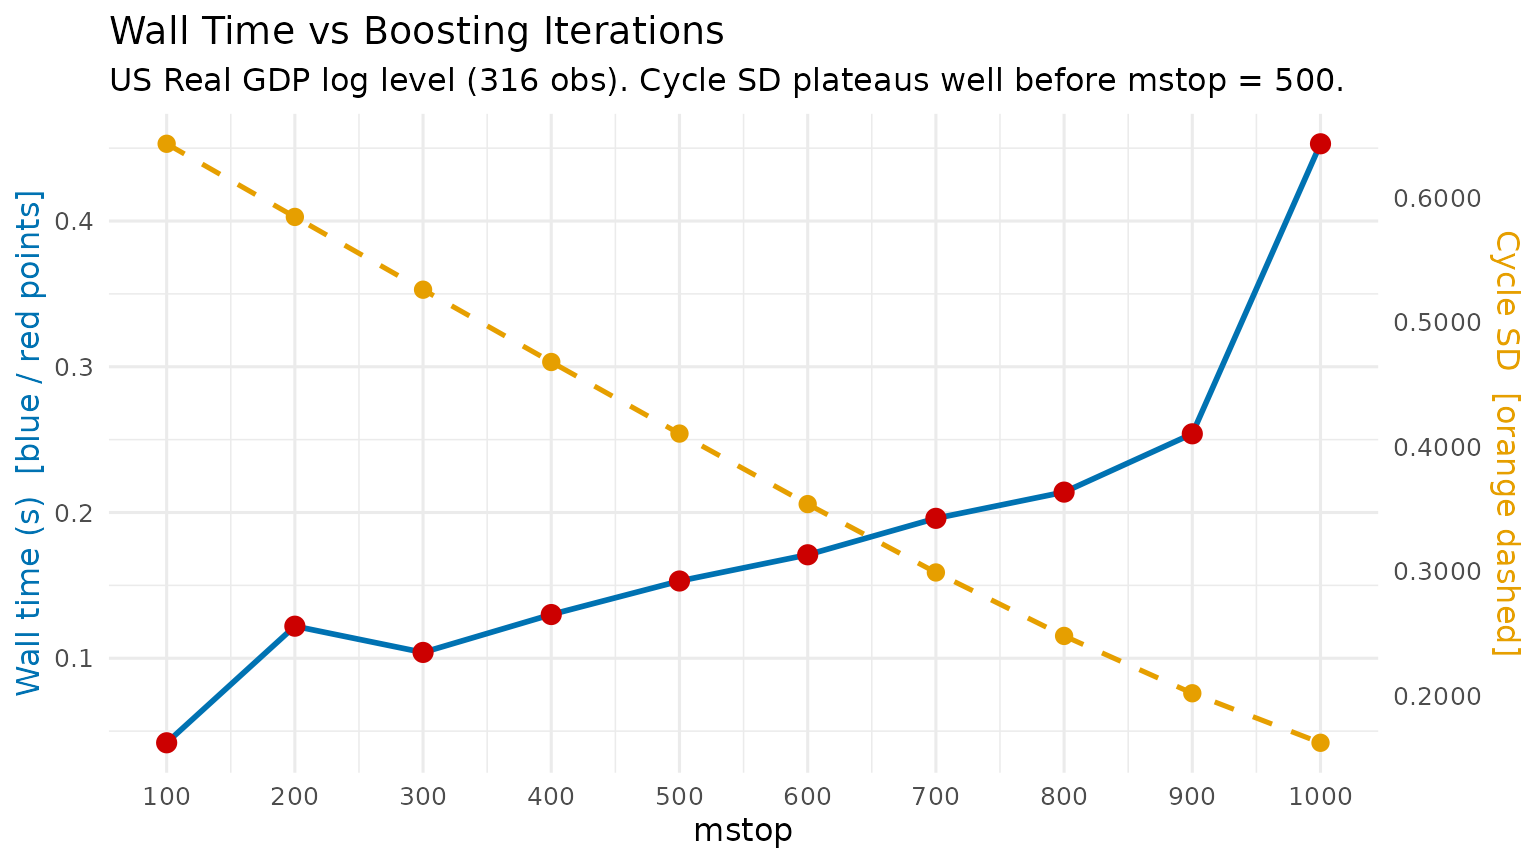
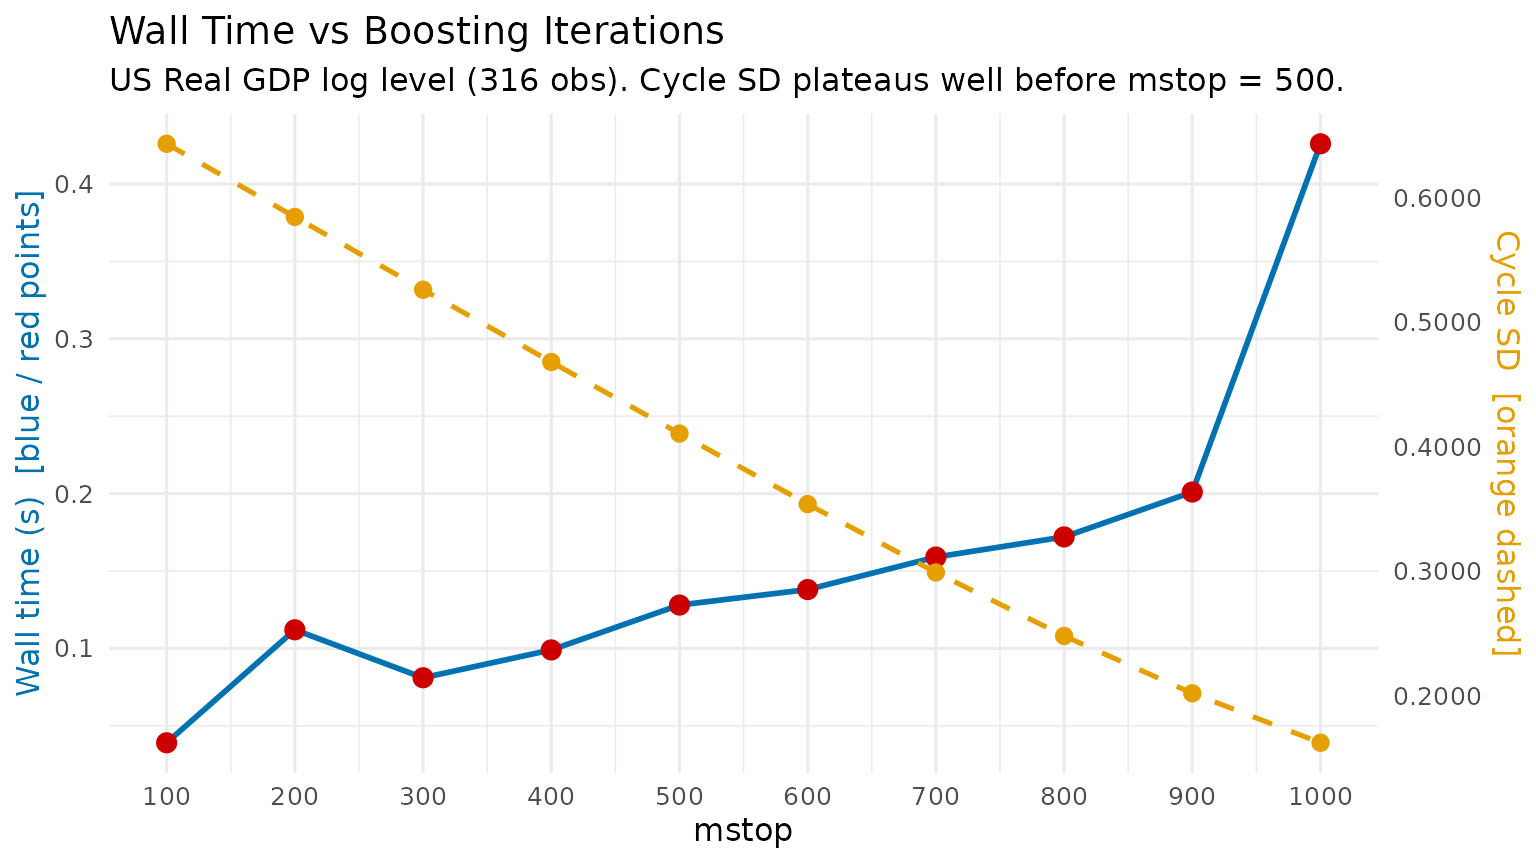
Deploying to gh-pages from @ michal0091/MacroFilters@2f823130a195d49e380ca0603fd429df06ac378d 🚀

diff --git a/articles/tuning_mbh.html b/articles/tuning_mbh.html
@@ -1,5 +1,5 @@
 <!DOCTYPE html>
-<!-- Generated by pkgdown: do not edit by hand --><html lang="en">
+<!-- Generated by pkgdown: do not edit by hand --><html lang="en-US">
 <head>
 <meta http-equiv="Content-Type" content="text/html; charset=UTF-8">
 <meta charset="utf-8">
@@ -336,52 +336,52 @@ boosting and the trend responds to the COVID shock.</li>
 <tbody>
 <tr class="odd">
 <td align="right">100</td>
-<td align="right">0.042</td>
+<td align="right">0.039</td>
 <td align="right">0.643260</td>
 </tr>
 <tr class="even">
 <td align="right">200</td>
-<td align="right">0.122</td>
+<td align="right">0.112</td>
 <td align="right">0.584503</td>
 </tr>
 <tr class="odd">
 <td align="right">300</td>
-<td align="right">0.104</td>
+<td align="right">0.081</td>
 <td align="right">0.526034</td>
 </tr>
 <tr class="even">
 <td align="right">400</td>
-<td align="right">0.130</td>
+<td align="right">0.099</td>
 <td align="right">0.467963</td>
 </tr>
 <tr class="odd">
 <td align="right">500</td>
-<td align="right">0.153</td>
+<td align="right">0.128</td>
 <td align="right">0.410462</td>
 </tr>
 <tr class="even">
 <td align="right">600</td>
-<td align="right">0.171</td>
+<td align="right">0.138</td>
 <td align="right">0.353805</td>
 </tr>
 <tr class="odd">
 <td align="right">700</td>
-<td align="right">0.196</td>
+<td align="right">0.159</td>
 <td align="right">0.298887</td>
 </tr>
 <tr class="even">
 <td align="right">800</td>
-<td align="right">0.214</td>
+<td align="right">0.172</td>
 <td align="right">0.247910</td>
 </tr>
 <tr class="odd">
 <td align="right">900</td>
-<td align="right">0.254</td>
+<td align="right">0.201</td>
 <td align="right">0.201850</td>
 </tr>
 <tr class="even">
 <td align="right">1000</td>
-<td align="right">0.453</td>
+<td align="right">0.426</td>
 <td align="right">0.162069</td>
 </tr>
 </tbody>

diff --git a/articles/introduction.html b/articles/introduction.html
@@ -1,5 +1,5 @@
 <!DOCTYPE html>
-<!-- Generated by pkgdown: do not edit by hand --><html lang="en">
+<!-- Generated by pkgdown: do not edit by hand --><html lang="en-US">
 <head>
 <meta http-equiv="Content-Type" content="text/html; charset=UTF-8">
 <meta charset="utf-8">
@@ -310,7 +310,7 @@ test</td>
 <span><span class="co">#&gt;    Observations : 100</span></span>
 <span><span class="co">#&gt;    Parameters   : lambda = 1600, iterations = 47, stopping_rule = bic</span></span>
 <span><span class="co">#&gt;    Cycle range  : [-5.487, 4.068]  sd = 1.857</span></span>
-<span><span class="co">#&gt;    Compute time : 0.004 s</span></span></code></pre></div>
+<span><span class="co">#&gt;    Compute time : 0.001 s</span></span></code></pre></div>
 <p>Internally, <strong>MacroFilters</strong> precomputes the sparse
 penalty matrix
 <math display="inline" xmlns="http://www.w3.org/1998/Math/MathML"><semantics><mrow><mi>Q</mi><mo>=</mo><mo stretchy="false" form="prefix">(</mo><mi>I</mi><mo>+</mo><mi>λ</mi><msup><mi>D</mi><mo>′</mo></msup><mi>D</mi><msup><mo stretchy="false" form="postfix">)</mo><mrow><mi>−</mi><mn>1</mn></mrow></msup></mrow><annotation encoding="application/x-tex">Q = (I + \lambda D'D)^{-1}</annotation></semantics></math>
@@ -466,7 +466,7 @@ dates.</p>
 <span><span class="co">#&gt;    Observations : 80</span></span>
 <span><span class="co">#&gt;    Parameters   : knots = 40, d = 2.789, mstop = 500, mstop_initial = 500, nu = 0.1, df = 4, select_mstop = FALSE</span></span>
 <span><span class="co">#&gt;    Cycle range  : [-26.64, 4.429]  sd = 4.087</span></span>
-<span><span class="co">#&gt;    Compute time : 0.130 s</span></span></code></pre></div>
+<span><span class="co">#&gt;    Compute time : 0.095 s</span></span></code></pre></div>
 <p><img src="introduction_files/figure-html/mbh-plot-1.png" class="r-plt" alt="" width="100%"></p>
 <hr>
 </div>
@@ -514,7 +514,7 @@ dates.</p>
 <span><span class="co">#&gt;    Observations : 80</span></span>
 <span><span class="co">#&gt;    Parameters   : knots = 40, d = 2.789, mstop = 500, mstop_initial = 500, nu = 0.1, df = 4, select_mstop = FALSE</span></span>
 <span><span class="co">#&gt;    Cycle range  : [-26.64, 4.429]  sd = 4.087</span></span>
-<span><span class="co">#&gt;    Compute time : 0.130 s</span></span></code></pre></div>
+<span><span class="co">#&gt;    Compute time : 0.095 s</span></span></code></pre></div>
 <p>The <code>print</code> method shows the method, the number of
 observations, the key parameters, the cycle range, and how long the
 filter took to run.</p>
@@ -549,7 +549,7 @@ filter took to run.</p>
 <span><span class="co">#&gt;  $ df            : int 4</span></span>
 <span><span class="co">#&gt;  $ select_mstop  : logi FALSE</span></span>
 <span><span class="co">#&gt;  $ boundary.knots: NULL</span></span>
-<span><span class="co">#&gt;  $ compute_time  : num 0.13</span></span></code></pre></div>
+<span><span class="co">#&gt;  $ compute_time  : num 0.095</span></span></code></pre></div>
 <p>The <code>meta</code> list stores every parameter used by the filter,
 making results fully reproducible from the object alone — no need to
 track arguments separately.</p>

diff --git a/authors.html b/authors.html
@@ -1,5 +1,5 @@
 <!DOCTYPE html>
-<!-- Generated by pkgdown: do not edit by hand --><html lang="en"><head><meta http-equiv="Content-Type" content="text/html; charset=UTF-8"><meta charset="utf-8"><meta http-equiv="X-UA-Compatible" content="IE=edge"><meta name="viewport" content="width=device-width, initial-scale=1, shrink-to-fit=no"><title>Authors and Citation • MacroFilters</title><!-- favicons --><link rel="icon" type="image/png" sizes="96x96" href="favicon-96x96.png"><link rel="icon" type="”image/svg+xml”" href="favicon.svg"><link rel="apple-touch-icon" sizes="180x180" href="apple-touch-icon.png"><link rel="icon" sizes="any" href="favicon.ico"><link rel="manifest" href="site.webmanifest"><script src="deps/jquery-3.6.0/jquery-3.6.0.min.js"></script><meta name="viewport" content="width=device-width, initial-scale=1, shrink-to-fit=no"><link href="deps/bootstrap-5.3.8/bootstrap.min.css" rel="stylesheet"><script src="deps/bootstrap-5.3.8/bootstrap.bundle.min.js"></script><link href="deps/font-awesome-6.5.2/css/all.min.css" rel="stylesheet"><link href="deps/font-awesome-6.5.2/css/v4-shims.min.css" rel="stylesheet"><script src="deps/headroom-0.11.0/headroom.min.js"></script><script src="deps/headroom-0.11.0/jQuery.headroom.min.js"></script><script src="deps/bootstrap-toc-1.0.1/bootstrap-toc.min.js"></script><script src="deps/clipboard.js-2.0.11/clipboard.min.js"></script><script src="deps/search-1.0.0/autocomplete.jquery.min.js"></script><script src="deps/search-1.0.0/fuse.min.js"></script><script src="deps/search-1.0.0/mark.min.js"></script><!-- pkgdown --><script src="pkgdown.js"></script><meta property="og:title" content="Authors and Citation"><meta property="og:image" content="https://michal0091.github.io/MacroFilters/logo.png"></head><body>
+<!-- Generated by pkgdown: do not edit by hand --><html lang="en-US"><head><meta http-equiv="Content-Type" content="text/html; charset=UTF-8"><meta charset="utf-8"><meta http-equiv="X-UA-Compatible" content="IE=edge"><meta name="viewport" content="width=device-width, initial-scale=1, shrink-to-fit=no"><title>Authors and Citation • MacroFilters</title><!-- favicons --><link rel="icon" type="image/png" sizes="96x96" href="favicon-96x96.png"><link rel="icon" type="”image/svg+xml”" href="favicon.svg"><link rel="apple-touch-icon" sizes="180x180" href="apple-touch-icon.png"><link rel="icon" sizes="any" href="favicon.ico"><link rel="manifest" href="site.webmanifest"><script src="deps/jquery-3.6.0/jquery-3.6.0.min.js"></script><meta name="viewport" content="width=device-width, initial-scale=1, shrink-to-fit=no"><link href="deps/bootstrap-5.3.8/bootstrap.min.css" rel="stylesheet"><script src="deps/bootstrap-5.3.8/bootstrap.bundle.min.js"></script><link href="deps/font-awesome-6.5.2/css/all.min.css" rel="stylesheet"><link href="deps/font-awesome-6.5.2/css/v4-shims.min.css" rel="stylesheet"><script src="deps/headroom-0.11.0/headroom.min.js"></script><script src="deps/headroom-0.11.0/jQuery.headroom.min.js"></script><script src="deps/bootstrap-toc-1.0.1/bootstrap-toc.min.js"></script><script src="deps/clipboard.js-2.0.11/clipboard.min.js"></script><script src="deps/search-1.0.0/autocomplete.jquery.min.js"></script><script src="deps/search-1.0.0/fuse.min.js"></script><script src="deps/search-1.0.0/mark.min.js"></script><!-- pkgdown --><script src="pkgdown.js"></script><meta property="og:title" content="Authors and Citation"><meta property="og:image" content="https://michal0091.github.io/MacroFilters/logo.png"></head><body>
     <a href="#main" class="visually-hidden-focusable">Skip to contents</a>
 
 
@@ -51,14 +51,14 @@
       <p>Kinel M (2026).
 “Robust Real-Time Macroeconomic Trend Extraction: A Gradient Boosting Approach.”
 <a href="https://doi.org/10.2139/ssrn.6371138" class="external-link">doi:10.2139/ssrn.6371138</a>.
-Working Paper, SSRN, <a href="https://ssrn.com/abstract=6371138" class="external-link">https://ssrn.com/abstract=6371138</a>.
+Working Paper, SSRN, <a href="https://doi.org/10.2139/ssrn.6371138" class="external-link">https://doi.org/10.2139/ssrn.6371138</a>.
 </p>
       <pre>@Unpublished{,
   title = {Robust Real-Time Macroeconomic Trend Extraction: A Gradient Boosting Approach},
   author = {Michal Kinel},
   year = {2026},
   note = {Working Paper, SSRN},
-  url = {https://ssrn.com/abstract=6371138},
+  url = {https://doi.org/10.2139/ssrn.6371138},
   doi = {10.2139/ssrn.6371138},
 }</pre>
     </div>

diff --git a/reference/mbh_filter.html b/reference/mbh_filter.html
@@ -1,5 +1,5 @@
 <!DOCTYPE html>
-<!-- Generated by pkgdown: do not edit by hand --><html lang="en"><head><meta http-equiv="Content-Type" content="text/html; charset=UTF-8"><meta charset="utf-8"><meta http-equiv="X-UA-Compatible" content="IE=edge"><meta name="viewport" content="width=device-width, initial-scale=1, shrink-to-fit=no"><title>MacroBoost Hybrid (MBH) Filter — mbh_filter • MacroFilters</title><!-- favicons --><link rel="icon" type="image/png" sizes="96x96" href="../favicon-96x96.png"><link rel="icon" type="”image/svg+xml”" href="../favicon.svg"><link rel="apple-touch-icon" sizes="180x180" href="../apple-touch-icon.png"><link rel="icon" sizes="any" href="../favicon.ico"><link rel="manifest" href="../site.webmanifest"><script src="../deps/jquery-3.6.0/jquery-3.6.0.min.js"></script><meta name="viewport" content="width=device-width, initial-scale=1, shrink-to-fit=no"><link href="../deps/bootstrap-5.3.8/bootstrap.min.css" rel="stylesheet"><script src="../deps/bootstrap-5.3.8/bootstrap.bundle.min.js"></script><link href="../deps/font-awesome-6.5.2/css/all.min.css" rel="stylesheet"><link href="../deps/font-awesome-6.5.2/css/v4-shims.min.css" rel="stylesheet"><script src="../deps/headroom-0.11.0/headroom.min.js"></script><script src="../deps/headroom-0.11.0/jQuery.headroom.min.js"></script><script src="../deps/bootstrap-toc-1.0.1/bootstrap-toc.min.js"></script><script src="../deps/clipboard.js-2.0.11/clipboard.min.js"></script><script src="../deps/search-1.0.0/autocomplete.jquery.min.js"></script><script src="../deps/search-1.0.0/fuse.min.js"></script><script src="../deps/search-1.0.0/mark.min.js"></script><!-- pkgdown --><script src="../pkgdown.js"></script><meta property="og:title" content="MacroBoost Hybrid (MBH) Filter — mbh_filter"><meta name="description" content="Decomposes a time series into trend and cycle using a robust boosting
+<!-- Generated by pkgdown: do not edit by hand --><html lang="en-US"><head><meta http-equiv="Content-Type" content="text/html; charset=UTF-8"><meta charset="utf-8"><meta http-equiv="X-UA-Compatible" content="IE=edge"><meta name="viewport" content="width=device-width, initial-scale=1, shrink-to-fit=no"><title>MacroBoost Hybrid (MBH) Filter — mbh_filter • MacroFilters</title><!-- favicons --><link rel="icon" type="image/png" sizes="96x96" href="../favicon-96x96.png"><link rel="icon" type="”image/svg+xml”" href="../favicon.svg"><link rel="apple-touch-icon" sizes="180x180" href="../apple-touch-icon.png"><link rel="icon" sizes="any" href="../favicon.ico"><link rel="manifest" href="../site.webmanifest"><script src="../deps/jquery-3.6.0/jquery-3.6.0.min.js"></script><meta name="viewport" content="width=device-width, initial-scale=1, shrink-to-fit=no"><link href="../deps/bootstrap-5.3.8/bootstrap.min.css" rel="stylesheet"><script src="../deps/bootstrap-5.3.8/bootstrap.bundle.min.js"></script><link href="../deps/font-awesome-6.5.2/css/all.min.css" rel="stylesheet"><link href="../deps/font-awesome-6.5.2/css/v4-shims.min.css" rel="stylesheet"><script src="../deps/headroom-0.11.0/headroom.min.js"></script><script src="../deps/headroom-0.11.0/jQuery.headroom.min.js"></script><script src="../deps/bootstrap-toc-1.0.1/bootstrap-toc.min.js"></script><script src="../deps/clipboard.js-2.0.11/clipboard.min.js"></script><script src="../deps/search-1.0.0/autocomplete.jquery.min.js"></script><script src="../deps/search-1.0.0/fuse.min.js"></script><script src="../deps/search-1.0.0/mark.min.js"></script><!-- pkgdown --><script src="../pkgdown.js"></script><meta property="og:title" content="MacroBoost Hybrid (MBH) Filter — mbh_filter"><meta name="description" content="Decomposes a time series into trend and cycle using a robust boosting
 algorithm. Unlike the HP filter, MBH uses the Huber loss function to
 automatically downweight outliers (like the COVID-19 shock), preventing
 them from distorting the trend."><meta property="og:description" content="Decomposes a time series into trend and cycle using a robust boosting
@@ -205,7 +205,7 @@ observations. Keep <code>df = 4</code> (the default) for real-time applications.
 <span class="r-out co"><span class="r-pr">#&gt;</span>    Observations : 80</span>
 <span class="r-out co"><span class="r-pr">#&gt;</span>    Parameters   : knots = 40, d = 0.9356, mstop = 100, mstop_initial = 100, nu = 0.1, df = 4, select_mstop = FALSE</span>
 <span class="r-out co"><span class="r-pr">#&gt;</span>    Cycle range  : [-2.445, 5.094]  sd = 1.643</span>
-<span class="r-out co"><span class="r-pr">#&gt;</span>    Compute time : 0.035 s</span>
+<span class="r-out co"><span class="r-pr">#&gt;</span>    Compute time : 0.025 s</span>
 <span class="r-in"><span></span></span>
 <span class="r-in"><span><span class="co"># \donttest{</span></span></span>
 <span class="r-in"><span><span class="co"># Full example with default parameters</span></span></span>
@@ -216,7 +216,7 @@ observations. Keep <code>df = 4</code> (the default) for real-time applications.
 <span class="r-out co"><span class="r-pr">#&gt;</span>    Observations : 200</span>
 <span class="r-out co"><span class="r-pr">#&gt;</span>    Parameters   : knots = 100, d = 0.9282, mstop = 500, mstop_initial = 500, nu = 0.1, df = 4, select_mstop = FALSE</span>
 <span class="r-out co"><span class="r-pr">#&gt;</span>    Cycle range  : [-4.004, 3.762]  sd = 1.463</span>
-<span class="r-out co"><span class="r-pr">#&gt;</span>    Compute time : 0.163 s</span>
+<span class="r-out co"><span class="r-pr">#&gt;</span>    Compute time : 0.118 s</span>
 <span class="r-in"><span><span class="co"># }</span></span></span>
 </code></pre></div>
     </div>

diff --git a/index.html b/index.html
@@ -1,5 +1,5 @@
 <!DOCTYPE html>
-<!-- Generated by pkgdown: do not edit by hand --><html lang="en">
+<!-- Generated by pkgdown: do not edit by hand --><html lang="en-US">
 <head>
 <meta http-equiv="Content-Type" content="text/html; charset=UTF-8">
 <meta charset="utf-8">
@@ -66,7 +66,7 @@
 </div>
 <p><a href="https://lifecycle.r-lib.org/articles/stages.html#experimental" class="external-link"></a> <a href="https://github.com/michal0091/MacroFilters/actions/workflows/R-CMD-check.yaml" class="external-link"></a></p>
 <blockquote>
-<p><strong>Working Paper Available:</strong> The econometric methodology and mathematical proofs underlying this package are distributed via SSRN: <a href="https://ssrn.com/abstract=6371138" class="external-link">Robust Real-Time Macroeconomic Trend Extraction: A Gradient Boosting Approach</a>.</p>
+<p><strong>Working Paper Available:</strong> The econometric methodology and mathematical proofs underlying this package are distributed via SSRN: <a href="https://doi.org/10.2139/ssrn.6371138" class="external-link">Robust Real-Time Macroeconomic Trend Extraction: A Gradient Boosting Approach</a>.</p>
 </blockquote>
 <p><strong>MacroFilters</strong> is a unified, high-performance library for extracting trend and cycle components from macroeconomic time series. It combines classical filters (Hodrick-Prescott, Hamilton, Boosted HP) with its flagship algorithm, the <strong>MacroBoost Hybrid (MBH)</strong> — a gradient-boosting filter with Huber loss that is <em>immune to structural shocks</em> such as COVID-19, financial crises, and wars.</p>
 <p><strong>Why MacroFilters instead of <code>mFilter</code> or <code>neverhpfilter</code>?</strong></p>

diff --git a/reference/bhp_filter.html b/reference/bhp_filter.html
@@ -1,5 +1,5 @@
 <!DOCTYPE html>
-<!-- Generated by pkgdown: do not edit by hand --><html lang="en"><head><meta http-equiv="Content-Type" content="text/html; charset=UTF-8"><meta charset="utf-8"><meta http-equiv="X-UA-Compatible" content="IE=edge"><meta name="viewport" content="width=device-width, initial-scale=1, shrink-to-fit=no"><title>Boosted HP Filter — bhp_filter • MacroFilters</title><!-- favicons --><link rel="icon" type="image/png" sizes="96x96" href="../favicon-96x96.png"><link rel="icon" type="”image/svg+xml”" href="../favicon.svg"><link rel="apple-touch-icon" sizes="180x180" href="../apple-touch-icon.png"><link rel="icon" sizes="any" href="../favicon.ico"><link rel="manifest" href="../site.webmanifest"><script src="../deps/jquery-3.6.0/jquery-3.6.0.min.js"></script><meta name="viewport" content="width=device-width, initial-scale=1, shrink-to-fit=no"><link href="../deps/bootstrap-5.3.8/bootstrap.min.css" rel="stylesheet"><script src="../deps/bootstrap-5.3.8/bootstrap.bundle.min.js"></script><link href="../deps/font-awesome-6.5.2/css/all.min.css" rel="stylesheet"><link href="../deps/font-awesome-6.5.2/css/v4-shims.min.css" rel="stylesheet"><script src="../deps/headroom-0.11.0/headroom.min.js"></script><script src="../deps/headroom-0.11.0/jQuery.headroom.min.js"></script><script src="../deps/bootstrap-toc-1.0.1/bootstrap-toc.min.js"></script><script src="../deps/clipboard.js-2.0.11/clipboard.min.js"></script><script src="../deps/search-1.0.0/autocomplete.jquery.min.js"></script><script src="../deps/search-1.0.0/fuse.min.js"></script><script src="../deps/search-1.0.0/mark.min.js"></script><!-- pkgdown --><script src="../pkgdown.js"></script><meta property="og:title" content="Boosted HP Filter — bhp_filter"><meta name="description" content="Iteratively applies the Hodrick-Prescott filter on residuals to better
+<!-- Generated by pkgdown: do not edit by hand --><html lang="en-US"><head><meta http-equiv="Content-Type" content="text/html; charset=UTF-8"><meta charset="utf-8"><meta http-equiv="X-UA-Compatible" content="IE=edge"><meta name="viewport" content="width=device-width, initial-scale=1, shrink-to-fit=no"><title>Boosted HP Filter — bhp_filter • MacroFilters</title><!-- favicons --><link rel="icon" type="image/png" sizes="96x96" href="../favicon-96x96.png"><link rel="icon" type="”image/svg+xml”" href="../favicon.svg"><link rel="apple-touch-icon" sizes="180x180" href="../apple-touch-icon.png"><link rel="icon" sizes="any" href="../favicon.ico"><link rel="manifest" href="../site.webmanifest"><script src="../deps/jquery-3.6.0/jquery-3.6.0.min.js"></script><meta name="viewport" content="width=device-width, initial-scale=1, shrink-to-fit=no"><link href="../deps/bootstrap-5.3.8/bootstrap.min.css" rel="stylesheet"><script src="../deps/bootstrap-5.3.8/bootstrap.bundle.min.js"></script><link href="../deps/font-awesome-6.5.2/css/all.min.css" rel="stylesheet"><link href="../deps/font-awesome-6.5.2/css/v4-shims.min.css" rel="stylesheet"><script src="../deps/headroom-0.11.0/headroom.min.js"></script><script src="../deps/headroom-0.11.0/jQuery.headroom.min.js"></script><script src="../deps/bootstrap-toc-1.0.1/bootstrap-toc.min.js"></script><script src="../deps/clipboard.js-2.0.11/clipboard.min.js"></script><script src="../deps/search-1.0.0/autocomplete.jquery.min.js"></script><script src="../deps/search-1.0.0/fuse.min.js"></script><script src="../deps/search-1.0.0/mark.min.js"></script><!-- pkgdown --><script src="../pkgdown.js"></script><meta property="og:title" content="Boosted HP Filter — bhp_filter"><meta name="description" content="Iteratively applies the Hodrick-Prescott filter on residuals to better
 capture stochastic trends.  At each iteration the HP smoother is applied to
 the current residual and the resulting trend increment is added to the
 cumulative trend estimate.  Iteration stops according to one of three rules:
@@ -147,7 +147,7 @@ Filter. <em>International Economic Review</em>, 62(2), 521–570.</p>
 <span class="r-out co"><span class="r-pr">#&gt;</span>    Observations : 200</span>
 <span class="r-out co"><span class="r-pr">#&gt;</span>    Parameters   : lambda = 1600, iterations = 100, stopping_rule = bic</span>
 <span class="r-out co"><span class="r-pr">#&gt;</span>    Cycle range  : [-1.713, 1.66]  sd = 0.6829</span>
-<span class="r-out co"><span class="r-pr">#&gt;</span>    Compute time : 0.010 s</span>
+<span class="r-out co"><span class="r-pr">#&gt;</span>    Compute time : 0.007 s</span>
 </code></pre></div>
     </div>
   </main><aside class="col-md-3"><nav id="toc" aria-label="Table of contents"><h2>On this page</h2>

diff --git a/reference/hp_filter.html b/reference/hp_filter.html
@@ -1,5 +1,5 @@
 <!DOCTYPE html>
-<!-- Generated by pkgdown: do not edit by hand --><html lang="en"><head><meta http-equiv="Content-Type" content="text/html; charset=UTF-8"><meta charset="utf-8"><meta http-equiv="X-UA-Compatible" content="IE=edge"><meta name="viewport" content="width=device-width, initial-scale=1, shrink-to-fit=no"><title>Hodrick-Prescott Filter (Sparse Matrix Implementation) — hp_filter • MacroFilters</title><!-- favicons --><link rel="icon" type="image/png" sizes="96x96" href="../favicon-96x96.png"><link rel="icon" type="”image/svg+xml”" href="../favicon.svg"><link rel="apple-touch-icon" sizes="180x180" href="../apple-touch-icon.png"><link rel="icon" sizes="any" href="../favicon.ico"><link rel="manifest" href="../site.webmanifest"><script src="../deps/jquery-3.6.0/jquery-3.6.0.min.js"></script><meta name="viewport" content="width=device-width, initial-scale=1, shrink-to-fit=no"><link href="../deps/bootstrap-5.3.8/bootstrap.min.css" rel="stylesheet"><script src="../deps/bootstrap-5.3.8/bootstrap.bundle.min.js"></script><link href="../deps/font-awesome-6.5.2/css/all.min.css" rel="stylesheet"><link href="../deps/font-awesome-6.5.2/css/v4-shims.min.css" rel="stylesheet"><script src="../deps/headroom-0.11.0/headroom.min.js"></script><script src="../deps/headroom-0.11.0/jQuery.headroom.min.js"></script><script src="../deps/bootstrap-toc-1.0.1/bootstrap-toc.min.js"></script><script src="../deps/clipboard.js-2.0.11/clipboard.min.js"></script><script src="../deps/search-1.0.0/autocomplete.jquery.min.js"></script><script src="../deps/search-1.0.0/fuse.min.js"></script><script src="../deps/search-1.0.0/mark.min.js"></script><!-- pkgdown --><script src="../pkgdown.js"></script><meta property="og:title" content="Hodrick-Prescott Filter (Sparse Matrix Implementation) — hp_filter"><meta name="description" content="Decomposes a time series into trend and cycle components by solving the
+<!-- Generated by pkgdown: do not edit by hand --><html lang="en-US"><head><meta http-equiv="Content-Type" content="text/html; charset=UTF-8"><meta charset="utf-8"><meta http-equiv="X-UA-Compatible" content="IE=edge"><meta name="viewport" content="width=device-width, initial-scale=1, shrink-to-fit=no"><title>Hodrick-Prescott Filter (Sparse Matrix Implementation) — hp_filter • MacroFilters</title><!-- favicons --><link rel="icon" type="image/png" sizes="96x96" href="../favicon-96x96.png"><link rel="icon" type="”image/svg+xml”" href="../favicon.svg"><link rel="apple-touch-icon" sizes="180x180" href="../apple-touch-icon.png"><link rel="icon" sizes="any" href="../favicon.ico"><link rel="manifest" href="../site.webmanifest"><script src="../deps/jquery-3.6.0/jquery-3.6.0.min.js"></script><meta name="viewport" content="width=device-width, initial-scale=1, shrink-to-fit=no"><link href="../deps/bootstrap-5.3.8/bootstrap.min.css" rel="stylesheet"><script src="../deps/bootstrap-5.3.8/bootstrap.bundle.min.js"></script><link href="../deps/font-awesome-6.5.2/css/all.min.css" rel="stylesheet"><link href="../deps/font-awesome-6.5.2/css/v4-shims.min.css" rel="stylesheet"><script src="../deps/headroom-0.11.0/headroom.min.js"></script><script src="../deps/headroom-0.11.0/jQuery.headroom.min.js"></script><script src="../deps/bootstrap-toc-1.0.1/bootstrap-toc.min.js"></script><script src="../deps/clipboard.js-2.0.11/clipboard.min.js"></script><script src="../deps/search-1.0.0/autocomplete.jquery.min.js"></script><script src="../deps/search-1.0.0/fuse.min.js"></script><script src="../deps/search-1.0.0/mark.min.js"></script><!-- pkgdown --><script src="../pkgdown.js"></script><meta property="og:title" content="Hodrick-Prescott Filter (Sparse Matrix Implementation) — hp_filter"><meta name="description" content="Decomposes a time series into trend and cycle components by solving the
 HP penalized least-squares problem using a sparse Cholesky factorization.
 This avoids the dense O(n^3) inversion used by other implementations and
 scales linearly in the number of observations."><meta property="og:description" content="Decomposes a time series into trend and cycle components by solving the
@@ -114,7 +114,7 @@ for the Frequency of Observations. <em>Review of Economics and Statistics</em>,
 <span class="r-out co"><span class="r-pr">#&gt;</span>    Observations : 200</span>
 <span class="r-out co"><span class="r-pr">#&gt;</span>    Parameters   : lambda = 1600</span>
 <span class="r-out co"><span class="r-pr">#&gt;</span>    Cycle range  : [-2.878, 3.83]  sd = 1.388</span>
-<span class="r-out co"><span class="r-pr">#&gt;</span>    Compute time : 0.003 s</span>
+<span class="r-out co"><span class="r-pr">#&gt;</span>    Compute time : 0.002 s</span>
 </code></pre></div>
     </div>
   </main><aside class="col-md-3"><nav id="toc" aria-label="Table of contents"><h2>On this page</h2>

diff --git a/404.html b/404.html
@@ -1,5 +1,5 @@
 <!DOCTYPE html>
-<!-- Generated by pkgdown: do not edit by hand --><html lang="en">
+<!-- Generated by pkgdown: do not edit by hand --><html lang="en-US">
 <head>
 <meta http-equiv="Content-Type" content="text/html; charset=UTF-8">
 <meta charset="utf-8">

diff --git a/CONTRIBUTING.html b/CONTRIBUTING.html
@@ -1,5 +1,5 @@
 <!DOCTYPE html>
-<!-- Generated by pkgdown: do not edit by hand --><html lang="en"><head><meta http-equiv="Content-Type" content="text/html; charset=UTF-8"><meta charset="utf-8"><meta http-equiv="X-UA-Compatible" content="IE=edge"><meta name="viewport" content="width=device-width, initial-scale=1, shrink-to-fit=no"><title>Contributing to MacroFilters • MacroFilters</title><!-- favicons --><link rel="icon" type="image/png" sizes="96x96" href="favicon-96x96.png"><link rel="icon" type="”image/svg+xml”" href="favicon.svg"><link rel="apple-touch-icon" sizes="180x180" href="apple-touch-icon.png"><link rel="icon" sizes="any" href="favicon.ico"><link rel="manifest" href="site.webmanifest"><script src="deps/jquery-3.6.0/jquery-3.6.0.min.js"></script><meta name="viewport" content="width=device-width, initial-scale=1, shrink-to-fit=no"><link href="deps/bootstrap-5.3.8/bootstrap.min.css" rel="stylesheet"><script src="deps/bootstrap-5.3.8/bootstrap.bundle.min.js"></script><link href="deps/font-awesome-6.5.2/css/all.min.css" rel="stylesheet"><link href="deps/font-awesome-6.5.2/css/v4-shims.min.css" rel="stylesheet"><script src="deps/headroom-0.11.0/headroom.min.js"></script><script src="deps/headroom-0.11.0/jQuery.headroom.min.js"></script><script src="deps/bootstrap-toc-1.0.1/bootstrap-toc.min.js"></script><script src="deps/clipboard.js-2.0.11/clipboard.min.js"></script><script src="deps/search-1.0.0/autocomplete.jquery.min.js"></script><script src="deps/search-1.0.0/fuse.min.js"></script><script src="deps/search-1.0.0/mark.min.js"></script><!-- pkgdown --><script src="pkgdown.js"></script><meta property="og:title" content="Contributing to MacroFilters"><meta property="og:image" content="https://michal0091.github.io/MacroFilters/logo.png"></head><body>
+<!-- Generated by pkgdown: do not edit by hand --><html lang="en-US"><head><meta http-equiv="Content-Type" content="text/html; charset=UTF-8"><meta charset="utf-8"><meta http-equiv="X-UA-Compatible" content="IE=edge"><meta name="viewport" content="width=device-width, initial-scale=1, shrink-to-fit=no"><title>Contributing to MacroFilters • MacroFilters</title><!-- favicons --><link rel="icon" type="image/png" sizes="96x96" href="favicon-96x96.png"><link rel="icon" type="”image/svg+xml”" href="favicon.svg"><link rel="apple-touch-icon" sizes="180x180" href="apple-touch-icon.png"><link rel="icon" sizes="any" href="favicon.ico"><link rel="manifest" href="site.webmanifest"><script src="deps/jquery-3.6.0/jquery-3.6.0.min.js"></script><meta name="viewport" content="width=device-width, initial-scale=1, shrink-to-fit=no"><link href="deps/bootstrap-5.3.8/bootstrap.min.css" rel="stylesheet"><script src="deps/bootstrap-5.3.8/bootstrap.bundle.min.js"></script><link href="deps/font-awesome-6.5.2/css/all.min.css" rel="stylesheet"><link href="deps/font-awesome-6.5.2/css/v4-shims.min.css" rel="stylesheet"><script src="deps/headroom-0.11.0/headroom.min.js"></script><script src="deps/headroom-0.11.0/jQuery.headroom.min.js"></script><script src="deps/bootstrap-toc-1.0.1/bootstrap-toc.min.js"></script><script src="deps/clipboard.js-2.0.11/clipboard.min.js"></script><script src="deps/search-1.0.0/autocomplete.jquery.min.js"></script><script src="deps/search-1.0.0/fuse.min.js"></script><script src="deps/search-1.0.0/mark.min.js"></script><!-- pkgdown --><script src="pkgdown.js"></script><meta property="og:title" content="Contributing to MacroFilters"><meta property="og:image" content="https://michal0091.github.io/MacroFilters/logo.png"></head><body>
     <a href="#main" class="visually-hidden-focusable">Skip to contents</a>
 
 

diff --git a/LICENSE-text.html b/LICENSE-text.html
@@ -1,5 +1,5 @@
 <!DOCTYPE html>
-<!-- Generated by pkgdown: do not edit by hand --><html lang="en"><head><meta http-equiv="Content-Type" content="text/html; charset=UTF-8"><meta charset="utf-8"><meta http-equiv="X-UA-Compatible" content="IE=edge"><meta name="viewport" content="width=device-width, initial-scale=1, shrink-to-fit=no"><title>License • MacroFilters</title><!-- favicons --><link rel="icon" type="image/png" sizes="96x96" href="favicon-96x96.png"><link rel="icon" type="”image/svg+xml”" href="favicon.svg"><link rel="apple-touch-icon" sizes="180x180" href="apple-touch-icon.png"><link rel="icon" sizes="any" href="favicon.ico"><link rel="manifest" href="site.webmanifest"><script src="deps/jquery-3.6.0/jquery-3.6.0.min.js"></script><meta name="viewport" content="width=device-width, initial-scale=1, shrink-to-fit=no"><link href="deps/bootstrap-5.3.8/bootstrap.min.css" rel="stylesheet"><script src="deps/bootstrap-5.3.8/bootstrap.bundle.min.js"></script><link href="deps/font-awesome-6.5.2/css/all.min.css" rel="stylesheet"><link href="deps/font-awesome-6.5.2/css/v4-shims.min.css" rel="stylesheet"><script src="deps/headroom-0.11.0/headroom.min.js"></script><script src="deps/headroom-0.11.0/jQuery.headroom.min.js"></script><script src="deps/bootstrap-toc-1.0.1/bootstrap-toc.min.js"></script><script src="deps/clipboard.js-2.0.11/clipboard.min.js"></script><script src="deps/search-1.0.0/autocomplete.jquery.min.js"></script><script src="deps/search-1.0.0/fuse.min.js"></script><script src="deps/search-1.0.0/mark.min.js"></script><!-- pkgdown --><script src="pkgdown.js"></script><meta property="og:title" content="License"><meta property="og:image" content="https://michal0091.github.io/MacroFilters/logo.png"></head><body>
+<!-- Generated by pkgdown: do not edit by hand --><html lang="en-US"><head><meta http-equiv="Content-Type" content="text/html; charset=UTF-8"><meta charset="utf-8"><meta http-equiv="X-UA-Compatible" content="IE=edge"><meta name="viewport" content="width=device-width, initial-scale=1, shrink-to-fit=no"><title>License • MacroFilters</title><!-- favicons --><link rel="icon" type="image/png" sizes="96x96" href="favicon-96x96.png"><link rel="icon" type="”image/svg+xml”" href="favicon.svg"><link rel="apple-touch-icon" sizes="180x180" href="apple-touch-icon.png"><link rel="icon" sizes="any" href="favicon.ico"><link rel="manifest" href="site.webmanifest"><script src="deps/jquery-3.6.0/jquery-3.6.0.min.js"></script><meta name="viewport" content="width=device-width, initial-scale=1, shrink-to-fit=no"><link href="deps/bootstrap-5.3.8/bootstrap.min.css" rel="stylesheet"><script src="deps/bootstrap-5.3.8/bootstrap.bundle.min.js"></script><link href="deps/font-awesome-6.5.2/css/all.min.css" rel="stylesheet"><link href="deps/font-awesome-6.5.2/css/v4-shims.min.css" rel="stylesheet"><script src="deps/headroom-0.11.0/headroom.min.js"></script><script src="deps/headroom-0.11.0/jQuery.headroom.min.js"></script><script src="deps/bootstrap-toc-1.0.1/bootstrap-toc.min.js"></script><script src="deps/clipboard.js-2.0.11/clipboard.min.js"></script><script src="deps/search-1.0.0/autocomplete.jquery.min.js"></script><script src="deps/search-1.0.0/fuse.min.js"></script><script src="deps/search-1.0.0/mark.min.js"></script><!-- pkgdown --><script src="pkgdown.js"></script><meta property="og:title" content="License"><meta property="og:image" content="https://michal0091.github.io/MacroFilters/logo.png"></head><body>
     <a href="#main" class="visually-hidden-focusable">Skip to contents</a>
 
 

diff --git a/LICENSE.html b/LICENSE.html
@@ -1,5 +1,5 @@
 <!DOCTYPE html>
-<!-- Generated by pkgdown: do not edit by hand --><html lang="en"><head><meta http-equiv="Content-Type" content="text/html; charset=UTF-8"><meta charset="utf-8"><meta http-equiv="X-UA-Compatible" content="IE=edge"><meta name="viewport" content="width=device-width, initial-scale=1, shrink-to-fit=no"><title>MIT License • MacroFilters</title><!-- favicons --><link rel="icon" type="image/png" sizes="96x96" href="favicon-96x96.png"><link rel="icon" type="”image/svg+xml”" href="favicon.svg"><link rel="apple-touch-icon" sizes="180x180" href="apple-touch-icon.png"><link rel="icon" sizes="any" href="favicon.ico"><link rel="manifest" href="site.webmanifest"><script src="deps/jquery-3.6.0/jquery-3.6.0.min.js"></script><meta name="viewport" content="width=device-width, initial-scale=1, shrink-to-fit=no"><link href="deps/bootstrap-5.3.8/bootstrap.min.css" rel="stylesheet"><script src="deps/bootstrap-5.3.8/bootstrap.bundle.min.js"></script><link href="deps/font-awesome-6.5.2/css/all.min.css" rel="stylesheet"><link href="deps/font-awesome-6.5.2/css/v4-shims.min.css" rel="stylesheet"><script src="deps/headroom-0.11.0/headroom.min.js"></script><script src="deps/headroom-0.11.0/jQuery.headroom.min.js"></script><script src="deps/bootstrap-toc-1.0.1/bootstrap-toc.min.js"></script><script src="deps/clipboard.js-2.0.11/clipboard.min.js"></script><script src="deps/search-1.0.0/autocomplete.jquery.min.js"></script><script src="deps/search-1.0.0/fuse.min.js"></script><script src="deps/search-1.0.0/mark.min.js"></script><!-- pkgdown --><script src="pkgdown.js"></script><meta property="og:title" content="MIT License"><meta property="og:image" content="https://michal0091.github.io/MacroFilters/logo.png"></head><body>
+<!-- Generated by pkgdown: do not edit by hand --><html lang="en-US"><head><meta http-equiv="Content-Type" content="text/html; charset=UTF-8"><meta charset="utf-8"><meta http-equiv="X-UA-Compatible" content="IE=edge"><meta name="viewport" content="width=device-width, initial-scale=1, shrink-to-fit=no"><title>MIT License • MacroFilters</title><!-- favicons --><link rel="icon" type="image/png" sizes="96x96" href="favicon-96x96.png"><link rel="icon" type="”image/svg+xml”" href="favicon.svg"><link rel="apple-touch-icon" sizes="180x180" href="apple-touch-icon.png"><link rel="icon" sizes="any" href="favicon.ico"><link rel="manifest" href="site.webmanifest"><script src="deps/jquery-3.6.0/jquery-3.6.0.min.js"></script><meta name="viewport" content="width=device-width, initial-scale=1, shrink-to-fit=no"><link href="deps/bootstrap-5.3.8/bootstrap.min.css" rel="stylesheet"><script src="deps/bootstrap-5.3.8/bootstrap.bundle.min.js"></script><link href="deps/font-awesome-6.5.2/css/all.min.css" rel="stylesheet"><link href="deps/font-awesome-6.5.2/css/v4-shims.min.css" rel="stylesheet"><script src="deps/headroom-0.11.0/headroom.min.js"></script><script src="deps/headroom-0.11.0/jQuery.headroom.min.js"></script><script src="deps/bootstrap-toc-1.0.1/bootstrap-toc.min.js"></script><script src="deps/clipboard.js-2.0.11/clipboard.min.js"></script><script src="deps/search-1.0.0/autocomplete.jquery.min.js"></script><script src="deps/search-1.0.0/fuse.min.js"></script><script src="deps/search-1.0.0/mark.min.js"></script><!-- pkgdown --><script src="pkgdown.js"></script><meta property="og:title" content="MIT License"><meta property="og:image" content="https://michal0091.github.io/MacroFilters/logo.png"></head><body>
     <a href="#main" class="visually-hidden-focusable">Skip to contents</a>
 
 

diff --git a/articles/index.html b/articles/index.html
@@ -1,5 +1,5 @@
 <!DOCTYPE html>
-<!-- Generated by pkgdown: do not edit by hand --><html lang="en"><head><meta http-equiv="Content-Type" content="text/html; charset=UTF-8"><meta charset="utf-8"><meta http-equiv="X-UA-Compatible" content="IE=edge"><meta name="viewport" content="width=device-width, initial-scale=1, shrink-to-fit=no"><title>Articles • MacroFilters</title><!-- favicons --><link rel="icon" type="image/png" sizes="96x96" href="../favicon-96x96.png"><link rel="icon" type="”image/svg+xml”" href="../favicon.svg"><link rel="apple-touch-icon" sizes="180x180" href="../apple-touch-icon.png"><link rel="icon" sizes="any" href="../favicon.ico"><link rel="manifest" href="../site.webmanifest"><script src="../deps/jquery-3.6.0/jquery-3.6.0.min.js"></script><meta name="viewport" content="width=device-width, initial-scale=1, shrink-to-fit=no"><link href="../deps/bootstrap-5.3.8/bootstrap.min.css" rel="stylesheet"><script src="../deps/bootstrap-5.3.8/bootstrap.bundle.min.js"></script><link href="../deps/font-awesome-6.5.2/css/all.min.css" rel="stylesheet"><link href="../deps/font-awesome-6.5.2/css/v4-shims.min.css" rel="stylesheet"><script src="../deps/headroom-0.11.0/headroom.min.js"></script><script src="../deps/headroom-0.11.0/jQuery.headroom.min.js"></script><script src="../deps/bootstrap-toc-1.0.1/bootstrap-toc.min.js"></script><script src="../deps/clipboard.js-2.0.11/clipboard.min.js"></script><script src="../deps/search-1.0.0/autocomplete.jquery.min.js"></script><script src="../deps/search-1.0.0/fuse.min.js"></script><script src="../deps/search-1.0.0/mark.min.js"></script><!-- pkgdown --><script src="../pkgdown.js"></script><meta property="og:title" content="Articles"><meta property="og:image" content="https://michal0091.github.io/MacroFilters/logo.png"></head><body>
+<!-- Generated by pkgdown: do not edit by hand --><html lang="en-US"><head><meta http-equiv="Content-Type" content="text/html; charset=UTF-8"><meta charset="utf-8"><meta http-equiv="X-UA-Compatible" content="IE=edge"><meta name="viewport" content="width=device-width, initial-scale=1, shrink-to-fit=no"><title>Articles • MacroFilters</title><!-- favicons --><link rel="icon" type="image/png" sizes="96x96" href="../favicon-96x96.png"><link rel="icon" type="”image/svg+xml”" href="../favicon.svg"><link rel="apple-touch-icon" sizes="180x180" href="../apple-touch-icon.png"><link rel="icon" sizes="any" href="../favicon.ico"><link rel="manifest" href="../site.webmanifest"><script src="../deps/jquery-3.6.0/jquery-3.6.0.min.js"></script><meta name="viewport" content="width=device-width, initial-scale=1, shrink-to-fit=no"><link href="../deps/bootstrap-5.3.8/bootstrap.min.css" rel="stylesheet"><script src="../deps/bootstrap-5.3.8/bootstrap.bundle.min.js"></script><link href="../deps/font-awesome-6.5.2/css/all.min.css" rel="stylesheet"><link href="../deps/font-awesome-6.5.2/css/v4-shims.min.css" rel="stylesheet"><script src="../deps/headroom-0.11.0/headroom.min.js"></script><script src="../deps/headroom-0.11.0/jQuery.headroom.min.js"></script><script src="../deps/bootstrap-toc-1.0.1/bootstrap-toc.min.js"></script><script src="../deps/clipboard.js-2.0.11/clipboard.min.js"></script><script src="../deps/search-1.0.0/autocomplete.jquery.min.js"></script><script src="../deps/search-1.0.0/fuse.min.js"></script><script src="../deps/search-1.0.0/mark.min.js"></script><!-- pkgdown --><script src="../pkgdown.js"></script><meta property="og:title" content="Articles"><meta property="og:image" content="https://michal0091.github.io/MacroFilters/logo.png"></head><body>
     <a href="#main" class="visually-hidden-focusable">Skip to contents</a>
 
 